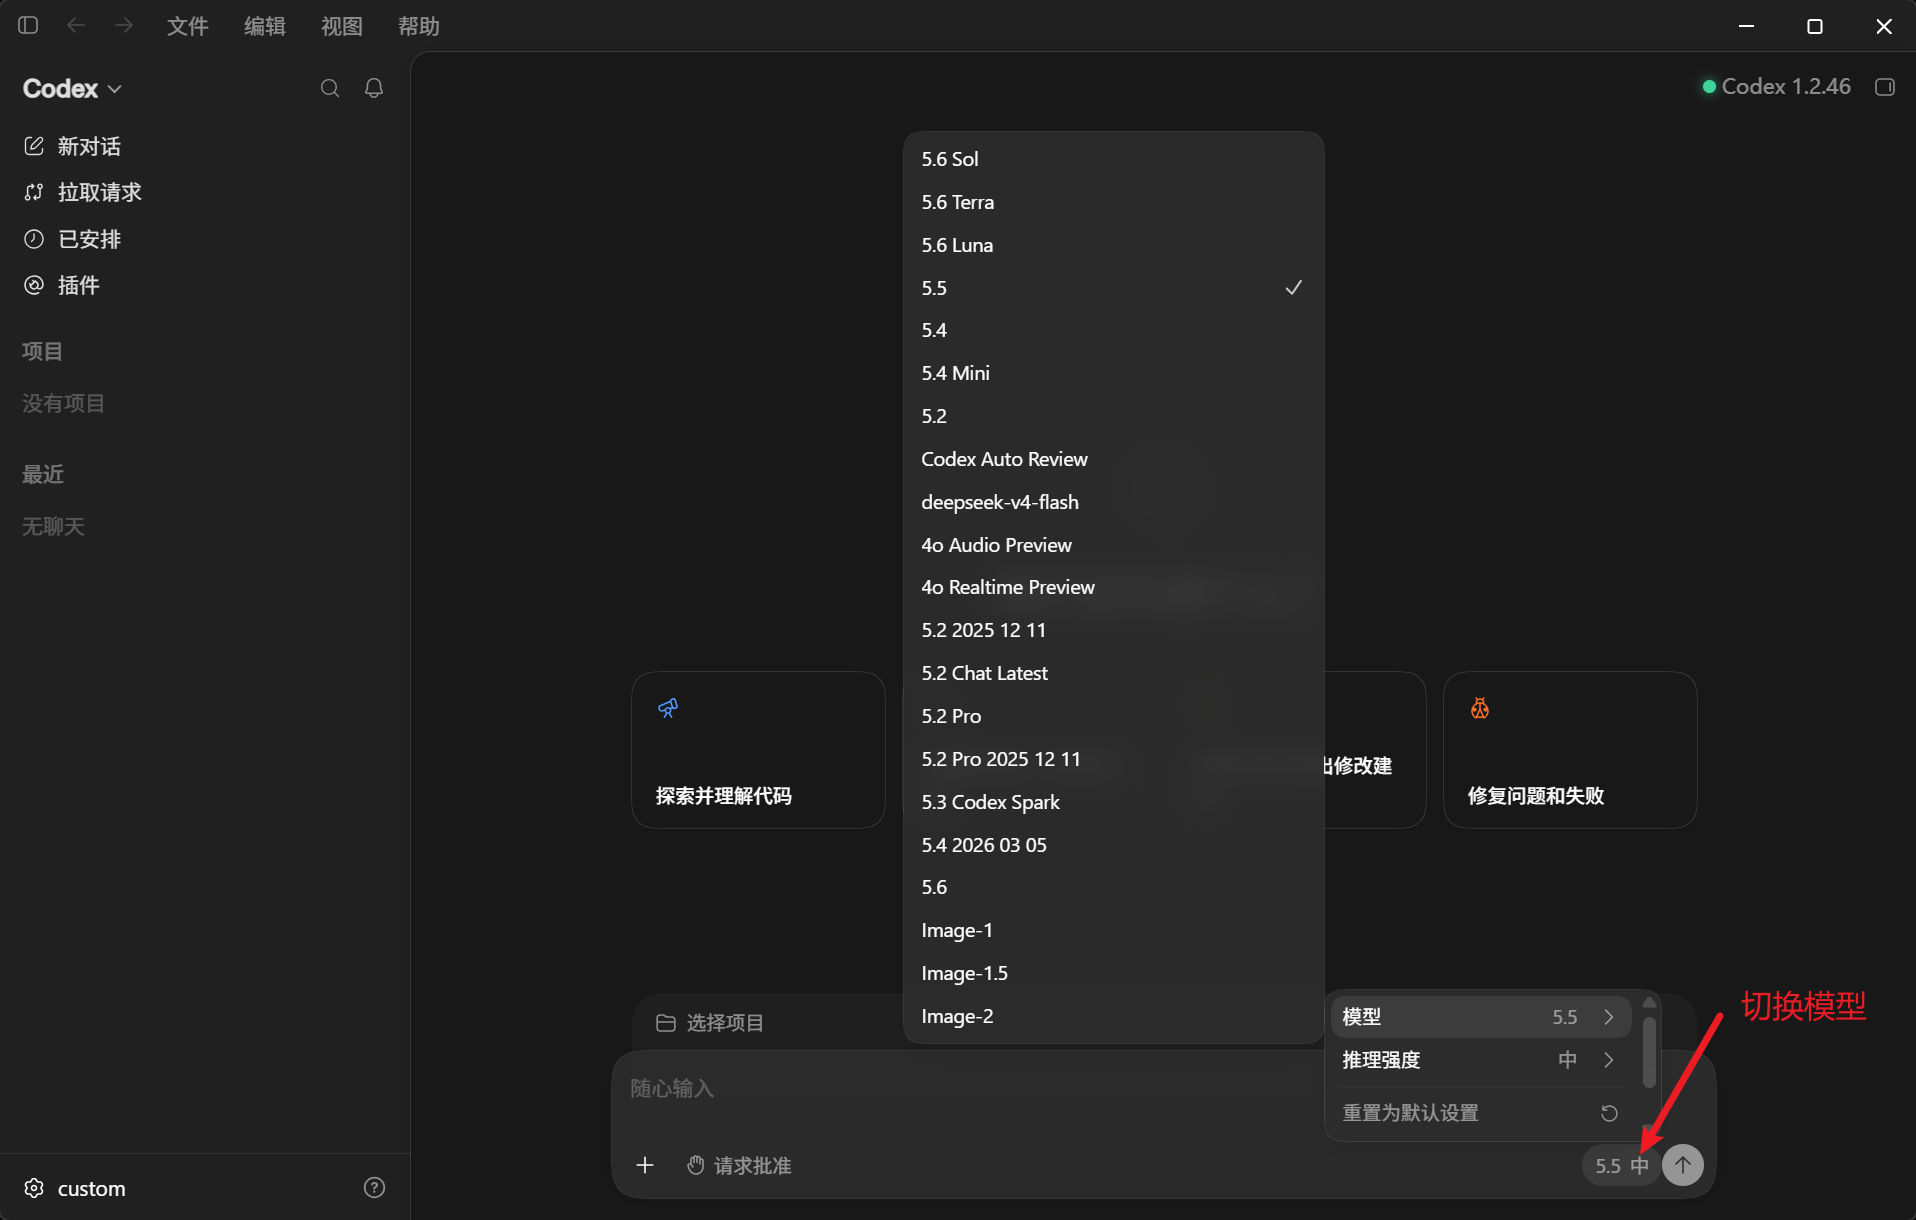
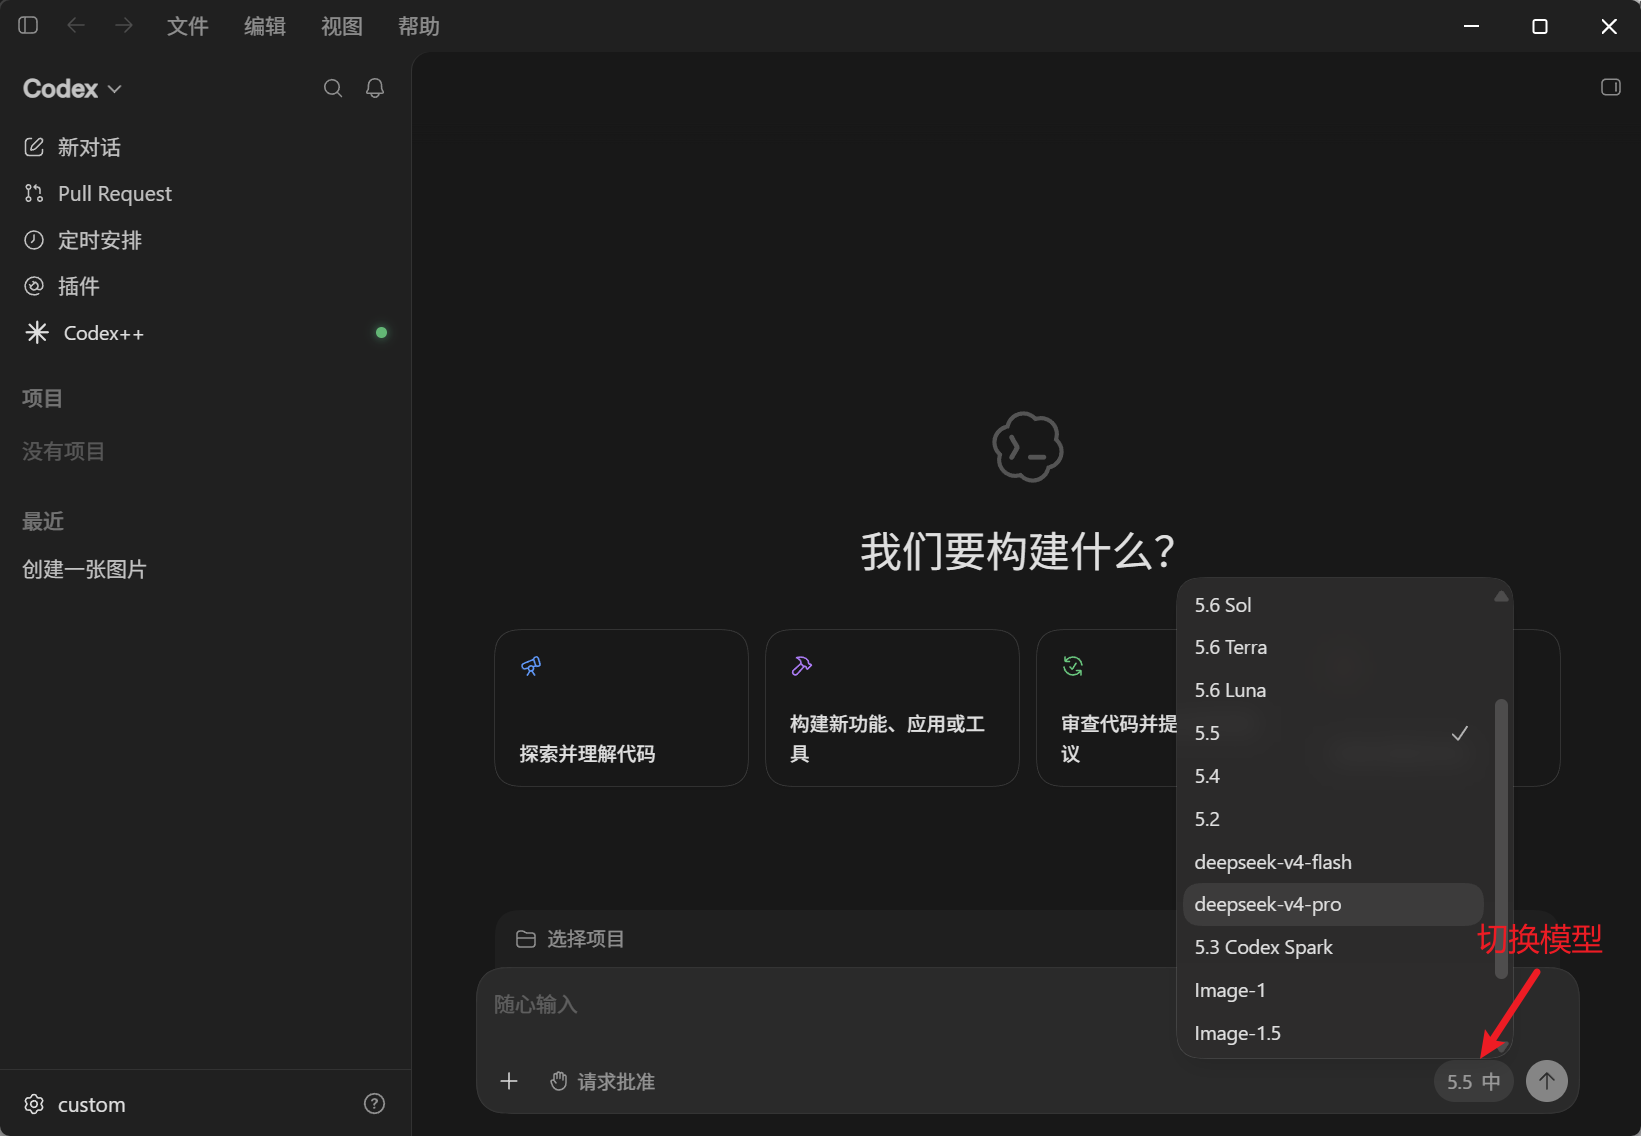
docs(portable): mark the guide as Windows-only and refresh screenshots
- 标题与开头明确标注适用平台为 Windows 10 / 11（64 位），并指向 macOS
  另有说明。
- 步骤 5 / 步骤 9 换成更新后的截图（配置窗口新 UI、模型切换标注）。
- 步骤 5 的文字措辞与截图标注对齐。

diff --git a/docs/ChatGPT便携版使用说明.md b/docs/ChatGPT便携版使用说明.md
@@ -1,6 +1,6 @@
-# ChatGPT 便携版使用说明
+# ChatGPT 便携版使用说明（Windows）
 
-本说明适用于包含 `chatgpt-launcher.exe`、`codex_app` 和 `data` 目录的 Windows 便携包。首次完成配置后，后续可直接运行启动器使用。
+**适用平台：Windows 10 / 11（64 位）。** 本说明面向包含 `chatgpt-launcher.exe`、`codex_app` 和 `data` 目录的 Windows 便携包；macOS 便携版请参考对应说明。首次完成配置后，后续可直接运行启动器使用。
 
 > 安全提示：API 密钥等同于账户凭证。不要将密钥、`config.ini` 或包含密钥的截图发给他人；不再使用时请在供应商后台禁用或删除密钥。
 
@@ -42,10 +42,10 @@
 首次启动会显示配置窗口：
 
 1. **API 网址**：填写服务商提供的接口地址，通常以 `/v1` 结尾。
-2. **API Key**：粘贴刚才复制的密钥。
+2. **API Key**：粘贴从服务商网站复制的密钥。
 3. **默认模型**：填写服务商支持的模型名称，例如截图中的 `gpt-5.5`。
 4. **Provider 名称**：一般可保留 `custom`。
-5. **ChatGPT App 路径**：程序会自动查找；找不到时点击“浏览”手动选择 `Codex.exe` 所在的应用目录。
+5. **ChatGPT App 路径**：启动器会自动检测并填写；未检测到时点击“浏览”手动选择 `Codex.exe` 所在的应用目录。
 6. 点击 **保存并启动 ChatGPT**。
 
 ![首次填写 API 信息](assets/chatgpt-usage/步骤5-快捷启动.png)
